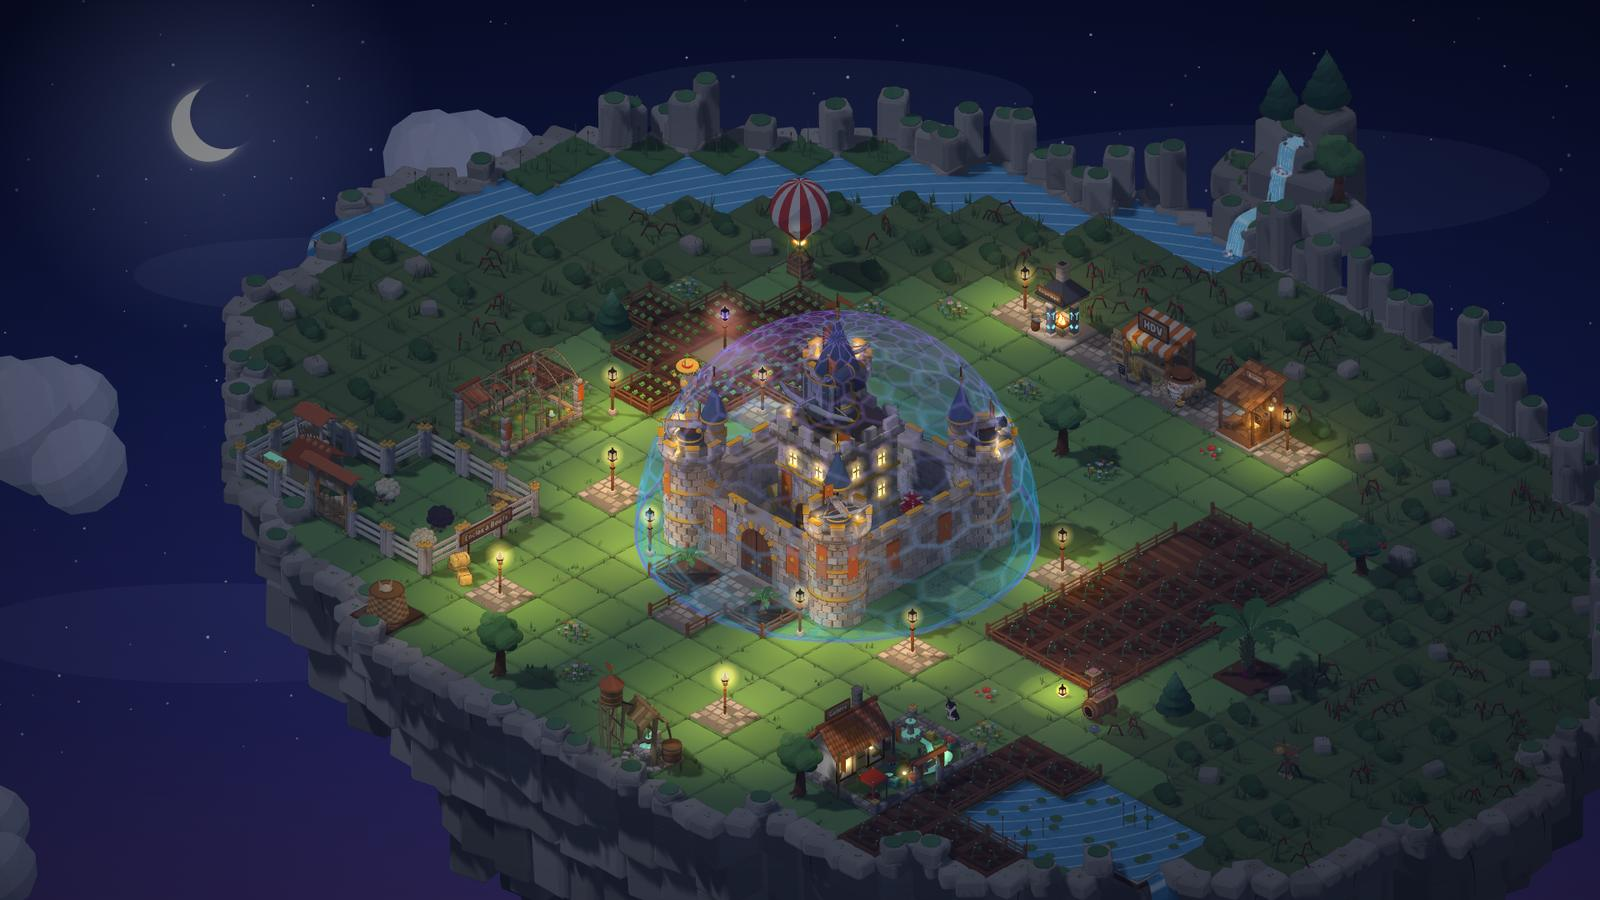
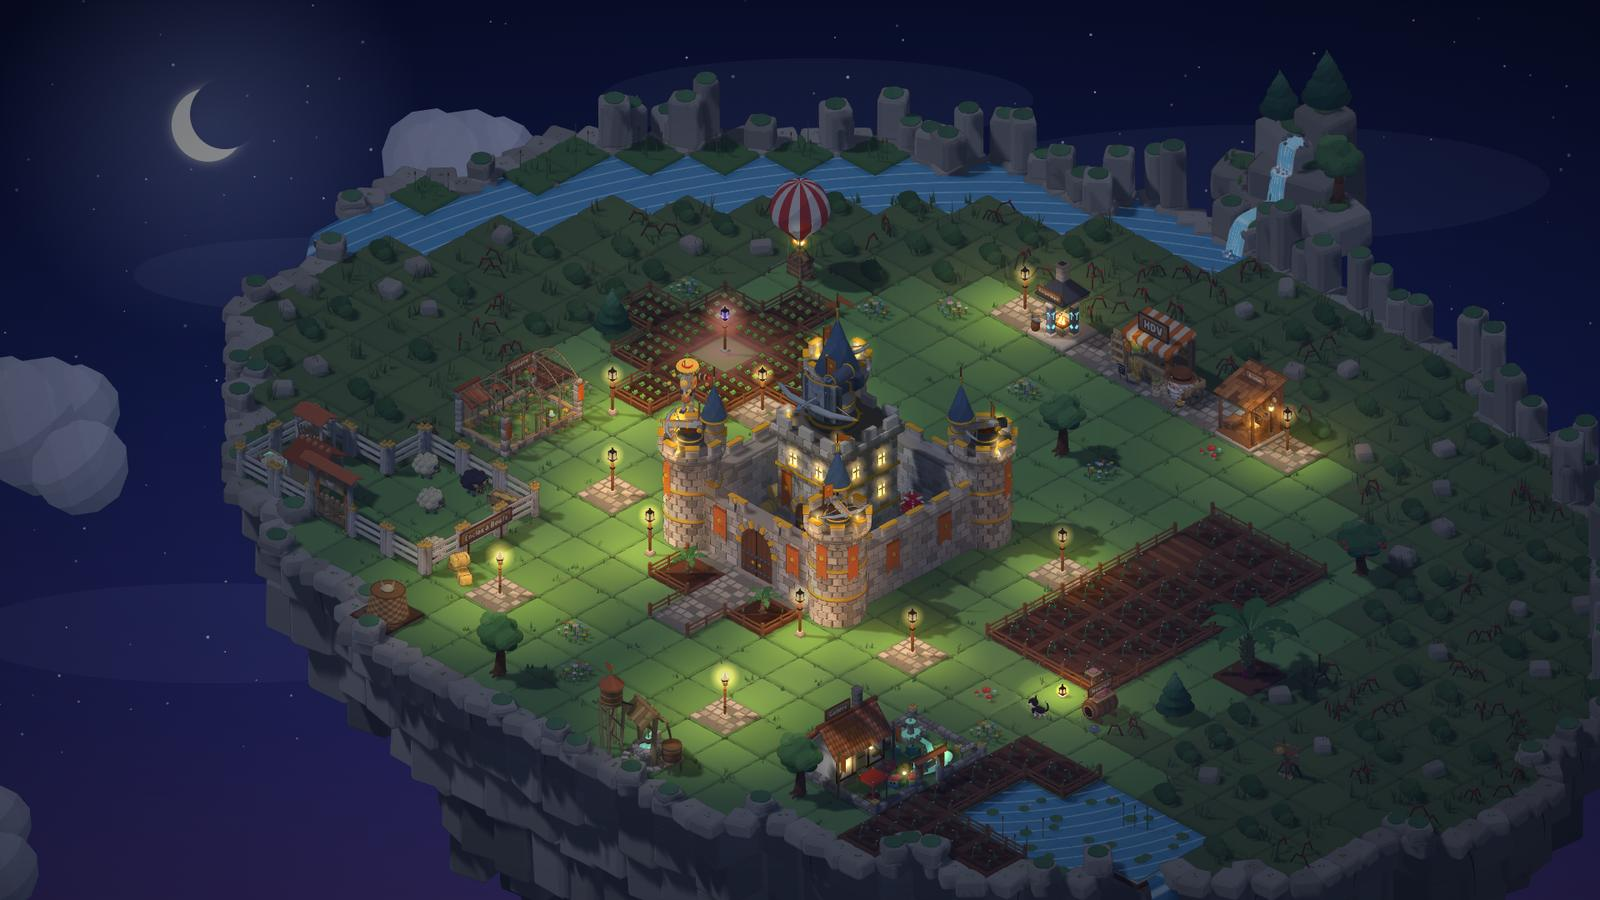
Ferme : fond du chargement sans le dome anti-VSA

diff --git a/site/ferme/css/jeu.css b/site/ferme/css/jeu.css
@@ -1507,7 +1507,7 @@ body.fp-en-glisse, body.fp-en-glisse * { cursor: grabbing !important; user-selec
 .chargement { position: fixed; inset: 0; z-index: 8; overflow: hidden; background: #070a1f; color: #ffe9c8; transition: opacity .6s ease; }
 .chargement.fini { opacity: 0; pointer-events: none; }
 .chargement[hidden] { display: none; }
-.ch-fond { position: absolute; inset: -4%; background: url(../assets/icones/chargement-fond.jpg) center 62% / cover no-repeat; animation: ch-apparait 1.4s ease both, ch-avance 26s ease-in-out infinite alternate; }
+.ch-fond { position: absolute; inset: -4%; background: url(../assets/icones/chargement-fond.jpg?v=20261115b) center 62% / cover no-repeat; animation: ch-apparait 1.4s ease both, ch-avance 26s ease-in-out infinite alternate; }
 @keyframes ch-apparait { from { opacity: 0; } }
 @keyframes ch-avance { from { transform: scale(1); } to { transform: scale(1.09) translate(-1.2%, -1.6%); } }
 .ch-voile { position: absolute; inset: 0; background: radial-gradient(ellipse 75% 70% at 50% 55%, rgba(7,10,31,0) 35%, rgba(7,10,31,.78) 100%), linear-gradient(180deg, rgba(7,10,31,.82) 0%, rgba(7,10,31,.25) 30%, rgba(7,10,31,0) 50%, rgba(7,10,31,.35) 72%, rgba(7,10,31,.92) 100%); }

diff --git a/site/ferme/index.html b/site/ferme/index.html
@@ -31,8 +31,8 @@
 <link rel="preconnect" href="https://fonts.googleapis.com">
 <link rel="preconnect" href="https://fonts.gstatic.com" crossorigin>
 <link rel="stylesheet" href="https://fonts.googleapis.com/css2?family=Lilita+One&family=Nunito:wght@600;800&display=swap">
-<link rel="preload" as="image" href="assets/icones/chargement-fond.jpg"><!-- (le fond de l'ecran de chargement, demande tout de suite) -->
-<link rel="stylesheet" href="css/jeu.css?v=3b55dea2c0">
+<link rel="preload" as="image" href="assets/icones/chargement-fond.jpg?v=20261115b"><!-- (le fond de l'ecran de chargement, demande tout de suite) -->
+<link rel="stylesheet" href="css/jeu.css?v=7f51025e73">
 </head>
 <body>
 <canvas id="ciel" aria-hidden="true"></canvas>
